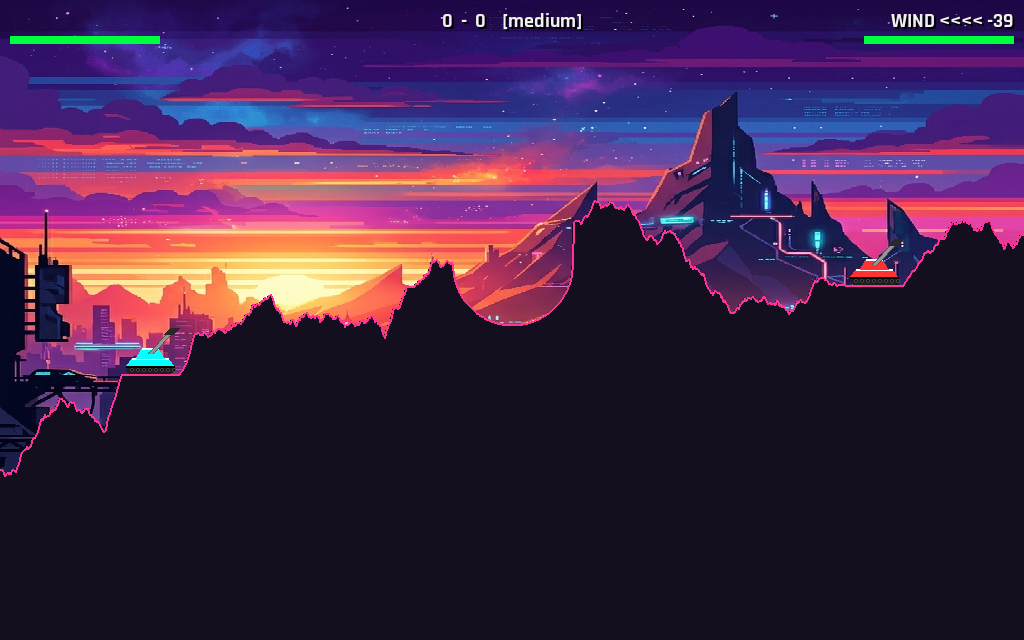
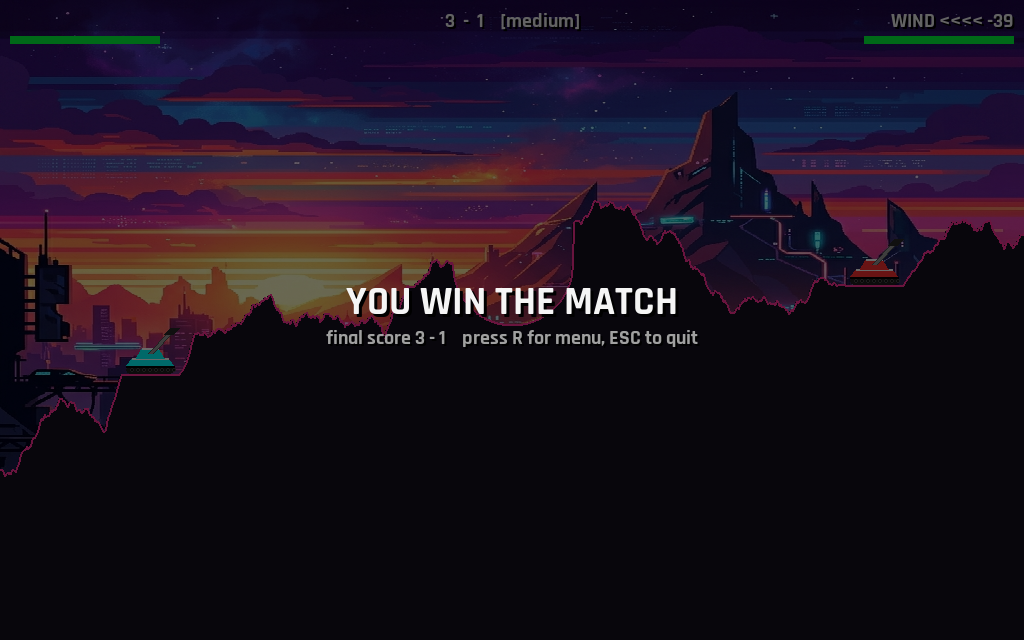
docs: fix AI aiming and match end screenshots

diff --git a/scripts/take_screenshot.py b/scripts/take_screenshot.py
@@ -36,14 +36,16 @@ async def main():
     
     # 4. AI Aiming
     game.state = "ai_turn"
+    game.current_tank = game.ai
     game.ai.angle_deg = 135
     game._render()
     pygame.image.save(game.screen, "docs/screenshots/04_ai_aiming.png")
     
     # 5. Match End
-    game.state = "match_over"
-    game.p1_wins = 3
-    game.p2_wins = 1
+    game.state = "match_end"
+    game.player_score = 3
+    game.ai_score = 1
+    game.match_over_msg = "YOU WIN THE MATCH"
     game._render()
     pygame.image.save(game.screen, "docs/screenshots/05_match_end.png")
     